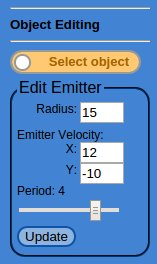
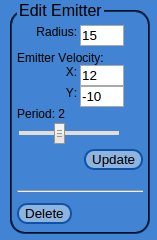
added ability to delete an emitter, adding more pictures

diff --git a/main.html b/main.html
@@ -303,7 +303,8 @@
         <input type="range" id="emitterEditPeriodSlider" min=".1" max="5" value="1" step=".1" onchange="updateEmitterEditPeriod(this.value)" />
       </div>
 
-      <input type="button" class="button" id="updateEmitter" onClick="updateEmitter();" value="Update"/>
+      <input type="button" class="button" id="updateEmitter" style="float:right;" onClick="updateEmitter();" value="Update"/><br/><br/><hr/>
+      <input type="button" class="button" id="deleteObject" onClick="deleteEmitter();" value="Delete"/>
     </fieldset>
   <!-- end #sidebar2 --></div></div>
   

diff --git a/js/main.js b/js/main.js
@@ -49,6 +49,18 @@ function deleteObject() {
 	}
 }
 
+function deleteEmitter() {
+  var body = selected_shape.GetBody();
+  var emitter = null;
+  for(var i=0; i < emitters.length; i++) {
+    if(body.m_userData.id == emitters[i].body.m_userData.id) {
+      emitters.splice(i);
+      delete emitterBodies[body.m_userData.id];
+    }
+  }
+  deleteObject();
+}
+
 function loadPolygon() {
   var fixed = document.getElementById("fixed").checked;
   var doc = document.getElementById("loadPolygon");
